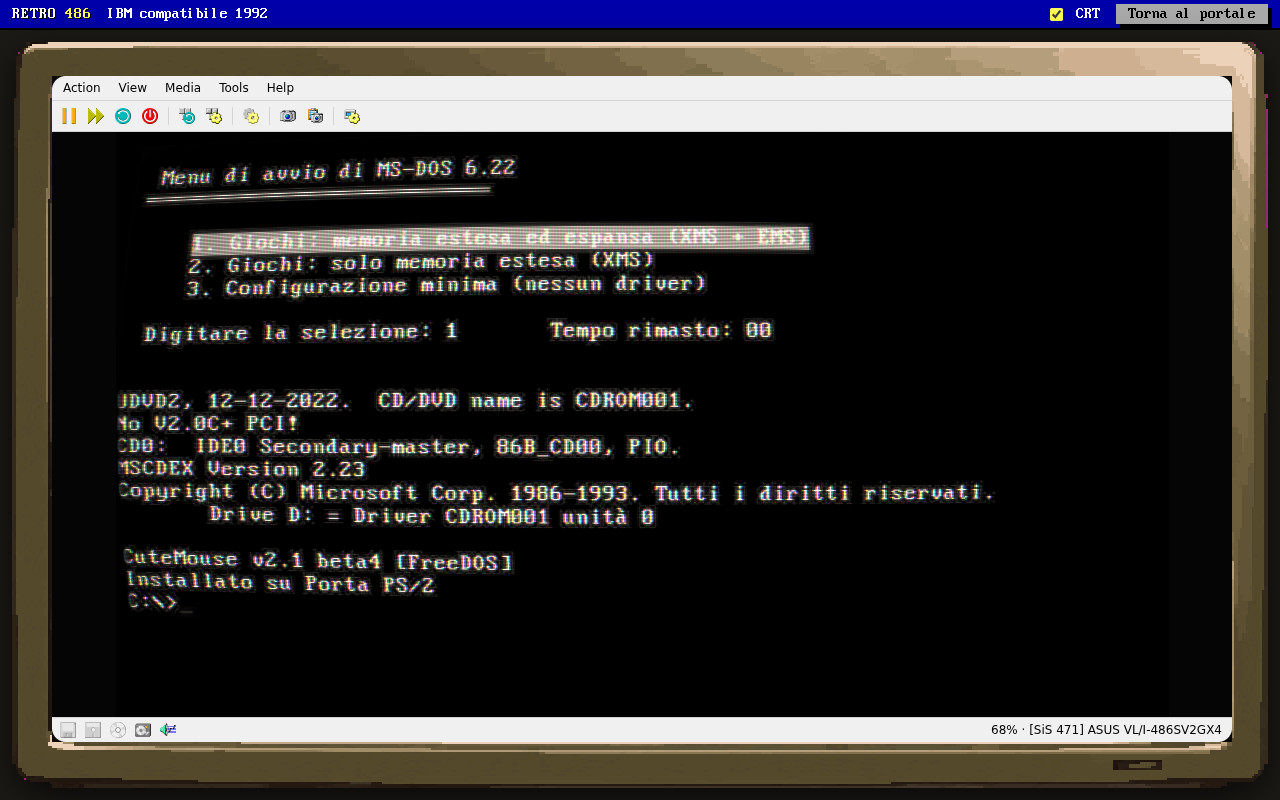
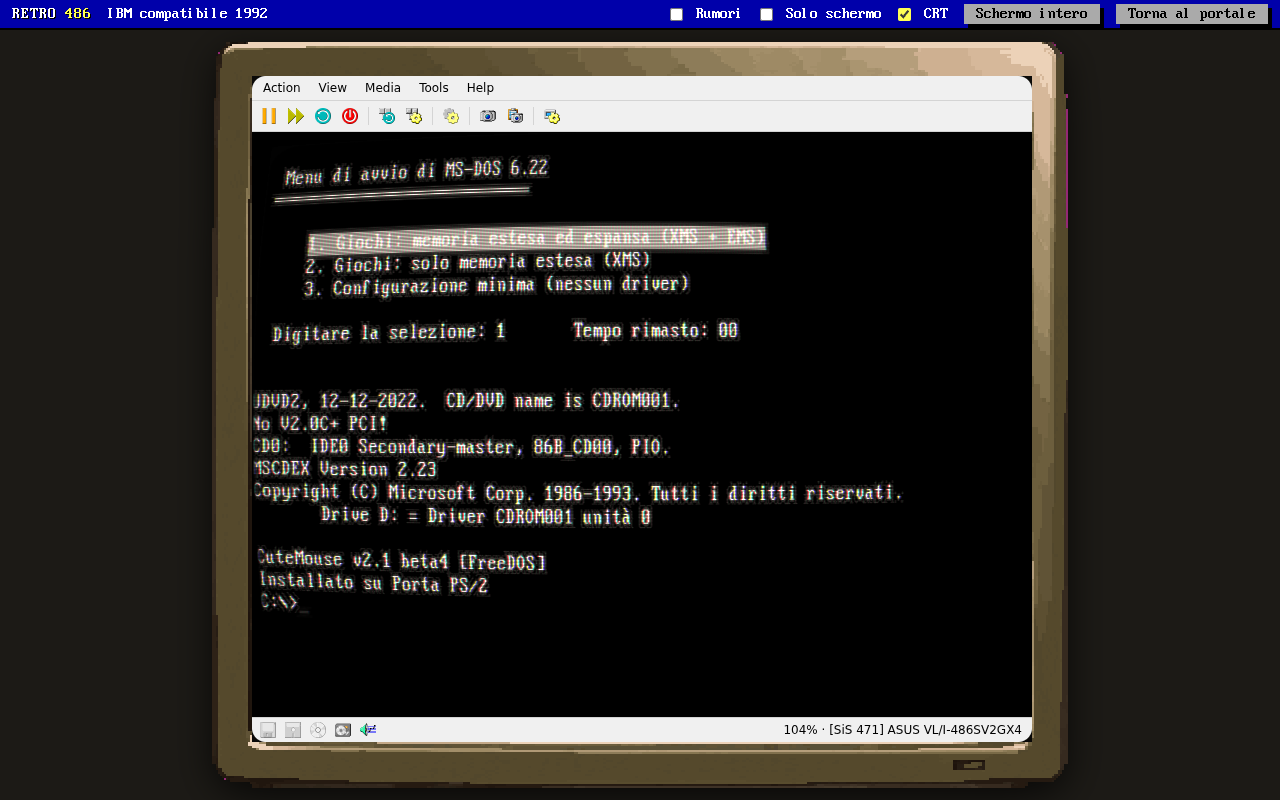
README: tabelle, sezioni e immagini aggiornate alla 0.5.0

diff --git a/README.md b/README.md
@@ -37,12 +37,12 @@ dischi, profili e supporti.
 | | |
 |---|---|
 | **Emulatore** | 86Box 7.0 (core originale) in WebAssembly a 32 bit con thread, dal port [Web86Box](https://github.com/Xeon3D/Web86Box), con il ricompilatore dinamico di 86Box portato a WebAssembly (interprete sempre disponibile) |
-| **Macchina di riferimento** | ASUS VL/I-486SV2GX4 (SiS 471, VLB, Award BIOS 4.51G) · Intel i486DX-33 · 8 MB · S3 86c805 VLB · Sound Blaster 16 · Roland MT-32 su MPU-401 |
-| **Configurabile** | 64 CPU reali per questa scheda (Intel, AMD, Cyrix: dal 486SX-20 al 5x86-160 e al Pentium OverDrive), ogni scheda madre 486 di 86Box con BIOS disponibile, RAM, video, audio, MIDI, mouse, floppy, CD-ROM, e il dialogo completo delle impostazioni di 86Box |
-| **Sistema** | MS-DOS 6.22 italiano, menu di avvio XMS+EMS / XMS / minimo, CD-ROM su D:, mouse, tastiera italiana, `BLASTER` impostato |
+| **Macchina di riferimento** | ASUS VL/I-486SV2GX4 (SiS 471, VLB, Award BIOS 4.51G) · Intel i486DX-33 · 8 MB · S3 86c805 VLB · Sound Blaster 16 · Roland MT-32 su MPU-401 (in alternativa General MIDI Yamaha OPL4-ML) |
+| **Configurabile** | 64 CPU reali per questa scheda (Intel, AMD, Cyrix: dal 486SX-20 al 5x86-160 e al Pentium OverDrive), ogni scheda madre 486 di 86Box con BIOS disponibile, RAM, video, audio, MIDI, joystick e pad, mouse, floppy, CD-ROM, e il dialogo completo delle impostazioni di 86Box |
+| **Sistema** | MS-DOS 6.22 italiano, menu di avvio XMS+EMS / XMS / minimo, CD-ROM su D:, mouse, tastiera italiana, `BLASTER` impostato. Facoltativo: Windows 3.11 già pronto, installabile dalla libreria |
 | **Giochi** | Libreria con avvio diretto, giochi aggiunti dal portale da un archivio ZIP; di serie Leisure Suit Larry 3 nella traduzione italiana di [melchior-larry3](https://github.com/Indr1d-C0ld/leisure-suit-larry-3-ita) |
-| **Monitor** | CRT in WebGL2 (curvatura, scanline, maschera dei fosfori, bloom, persistenza...) con ripiego su Canvas 2D senza GPU |
-| **Server** | Apache + PHP 8.4 su Balthasar: hard disk compresso (6,5 MB), profili, CMOS, floppy e CD; Basic Auth |
+| **Monitor** | CRT in WebGL2 (curvatura, scanline, maschera dei fosfori, bloom, persistenza...) con ripiego su Canvas 2D senza GPU; cornice sempre in 4:3, solo schermo, schermo intero, rumori d'epoca |
+| **Server** | Apache + PHP 8.4 su Balthasar: hard disk compresso (6,5 MB), copia di fabbrica, profili, CMOS, floppy e CD; Basic Auth |
 | **Browser** | Chrome, Edge, Firefox recenti (serve memory64: Safari no) |
 
 ## Immagini
@@ -56,7 +56,9 @@ dischi, profili e supporti.
 | ![Configura](docs/img/02-configura.png) | ![Hard disk](docs/img/03-hard-disk.png) |
 | CONFIGURA: scheda madre, CPU, RAM, video, audio, MIDI | HARD DISK: l'esplora-disco sul FAT16 del C: |
 | ![Libreria](docs/img/04-libreria.png) | ![Media](docs/img/05-media.png) |
-| LIBRERIA: avvio diretto dei giochi | MEDIA: i floppy di MS-DOS e il CD di Windows 3.11 |
+| LIBRERIA: avvio diretto dei giochi e Windows 3.11 da installare | MEDIA: i floppy di MS-DOS e il CD di Windows 3.11 |
+| ![Windows 3.11](docs/img/11-windows311.png) | ![Solo schermo](docs/img/12-solo-schermo.png) |
+| Windows 3.11 a 800x600 in 256 colori, installato dalla libreria | *Solo schermo*: il tubo catodico in 4:3 senza menu né barre |
 
 ## Il portale, sezione per sezione
 
@@ -67,13 +69,14 @@ linea con l'ombra, tasti funzione come in un programma DOS.
 |---|---|---|
 | **F1** | SISTEMA | Scheda tecnica della macchina, case con i MHz sul display a 7 segmenti, stato delle unità, accensione (**F10**) |
 | **F2** | CONFIGURA | Profili hardware predefiniti e personali (salvati sul server). Ogni scelta è filtrata sul catalogo di 86Box: solo CPU, schede e periferiche compatibili con la scheda madre. *Impostazioni avanzate 86Box* apre il dialogo completo (wait state, controller, porte, rete, configurazione di ogni dispositivo). Indica quanto è pesante la CPU scelta per il browser |
-| **F3** | HARD DISK | Esplora-disco del C: a macchina spenta: navigazione, anteprima testo/esadecimale, editor per AUTOEXEC.BAT e CONFIG.SYS (code page 437, lettere accentate comprese), caricamento di file e cartelle dal PC (nomi lunghi convertiti in 8.3), rinomina, eliminazione, nuova cartella. Riscrive solo i blocchi da 64 KB cambiati. Salvataggio dell'hard disk sul server, ripristino, download dell'immagine |
-| **F4** | LIBRERIA | Giochi installati con *Avvia*: il portale scrive `C:\RETRO486\AVVIO.BAT`, che AUTOEXEC.BAT esegue, e sceglie il driver audio del gioco in base al profilo (MT-32 o AdLib) |
+| **F3** | HARD DISK | Esplora-disco del C: a macchina spenta: navigazione, anteprima testo/esadecimale, editor per AUTOEXEC.BAT e CONFIG.SYS (code page 437, lettere accentate comprese), caricamento di file e cartelle dal PC anche per trascinamento (nomi lunghi convertiti in 8.3), download di una cartella come ZIP, rinomina, eliminazione, nuova cartella. Riscrive solo i blocchi da 64 KB cambiati. Salvataggio dell'hard disk sul server, ripristino, disco di fabbrica, download dell'immagine |
+| **F4** | LIBRERIA | Giochi installati con *Avvia*: il portale scrive `C:\RETRO486\AVVIO.BAT`, che AUTOEXEC.BAT esegue, e sceglie il driver audio del gioco in base al profilo (MT-32 o AdLib). *Aggiungi un gioco* da un archivio ZIP. Scheda facoltativa di Windows 3.11 |
 | **F5** | MEDIA | Floppy e CD da inserire all'accensione; a macchina accesa si cambiano dal menu Media |
 | **F6** | MONITOR | Il CRT emulato: preset, regolazioni, anteprima |
 
 La macchina accesa usa la finestra di Web86Box (menu Action/View/Media/Tools, barra di stato con l'attività
-dei dischi) dentro la cornice del monitor pixel art. *Torna al portale* spegne il PC.
+dei dischi) dentro la cornice del monitor pixel art, sempre in 4:3. Sopra il monitor: *Rumori*, *Solo schermo*, *CRT*,
+*Schermo intero*. *Torna al portale* spegne il PC.
 
 ## La macchina emulata
 
@@ -94,8 +97,8 @@ Profili predefiniti:
 | Profilo | Macchina | Nel browser |
 |---|---|---|
 | IBM compatibile 1992 | i486DX-33, 8 MB, S3 805, SB16, MT-32 | tempo reale (JIT) |
-| Gaming Rig 1994 | i486DX2-66, 16 MB, S3 Trio64, SB16, MT-32 | tempo reale (JIT) |
-| Top di gamma 1995 | iDX4-100, 32 MB, S3 Trio64, SB16, MT-32 | tempo reale (JIT) |
+| Gaming Rig 1994 | i486DX2-66, 16 MB, S3 Trio64, SB16, General MIDI | tempo reale (JIT) |
+| Top di gamma 1995 | iDX4-100, 32 MB, S3 Trio64, SB16, General MIDI | tempo reale (JIT) |
 | PC economico 1991 | i486SX-25, 4 MB, ET4000, SB Pro 2 | tempo reale (interprete) |
 | Postazione Windows 3.11 | i486DX2-66, 16 MB, Tseng ET4000/W32, SB16, General MIDI | tempo reale (JIT) |
 
@@ -395,7 +398,8 @@ ln -sfn ../data dist/dati
 php -S 127.0.0.1:8486 -t dist tools/dev/router.php
 ```
 
-Screenshot del README: `node tools/dev/screenshot.mjs` (Chromium headless con WebGL software).
+Screenshot del README: `node tools/dev/screenshot.mjs` (Chromium headless con WebGL software). Prove: `prova-joystick`,
+`prova-libreria`, `prova-midi`, `prova-scambio`, `prova-windows`, `prova-fabbrica` in `tools/dev/`.
 
 ## Pubblicazione su Balthasar
 
